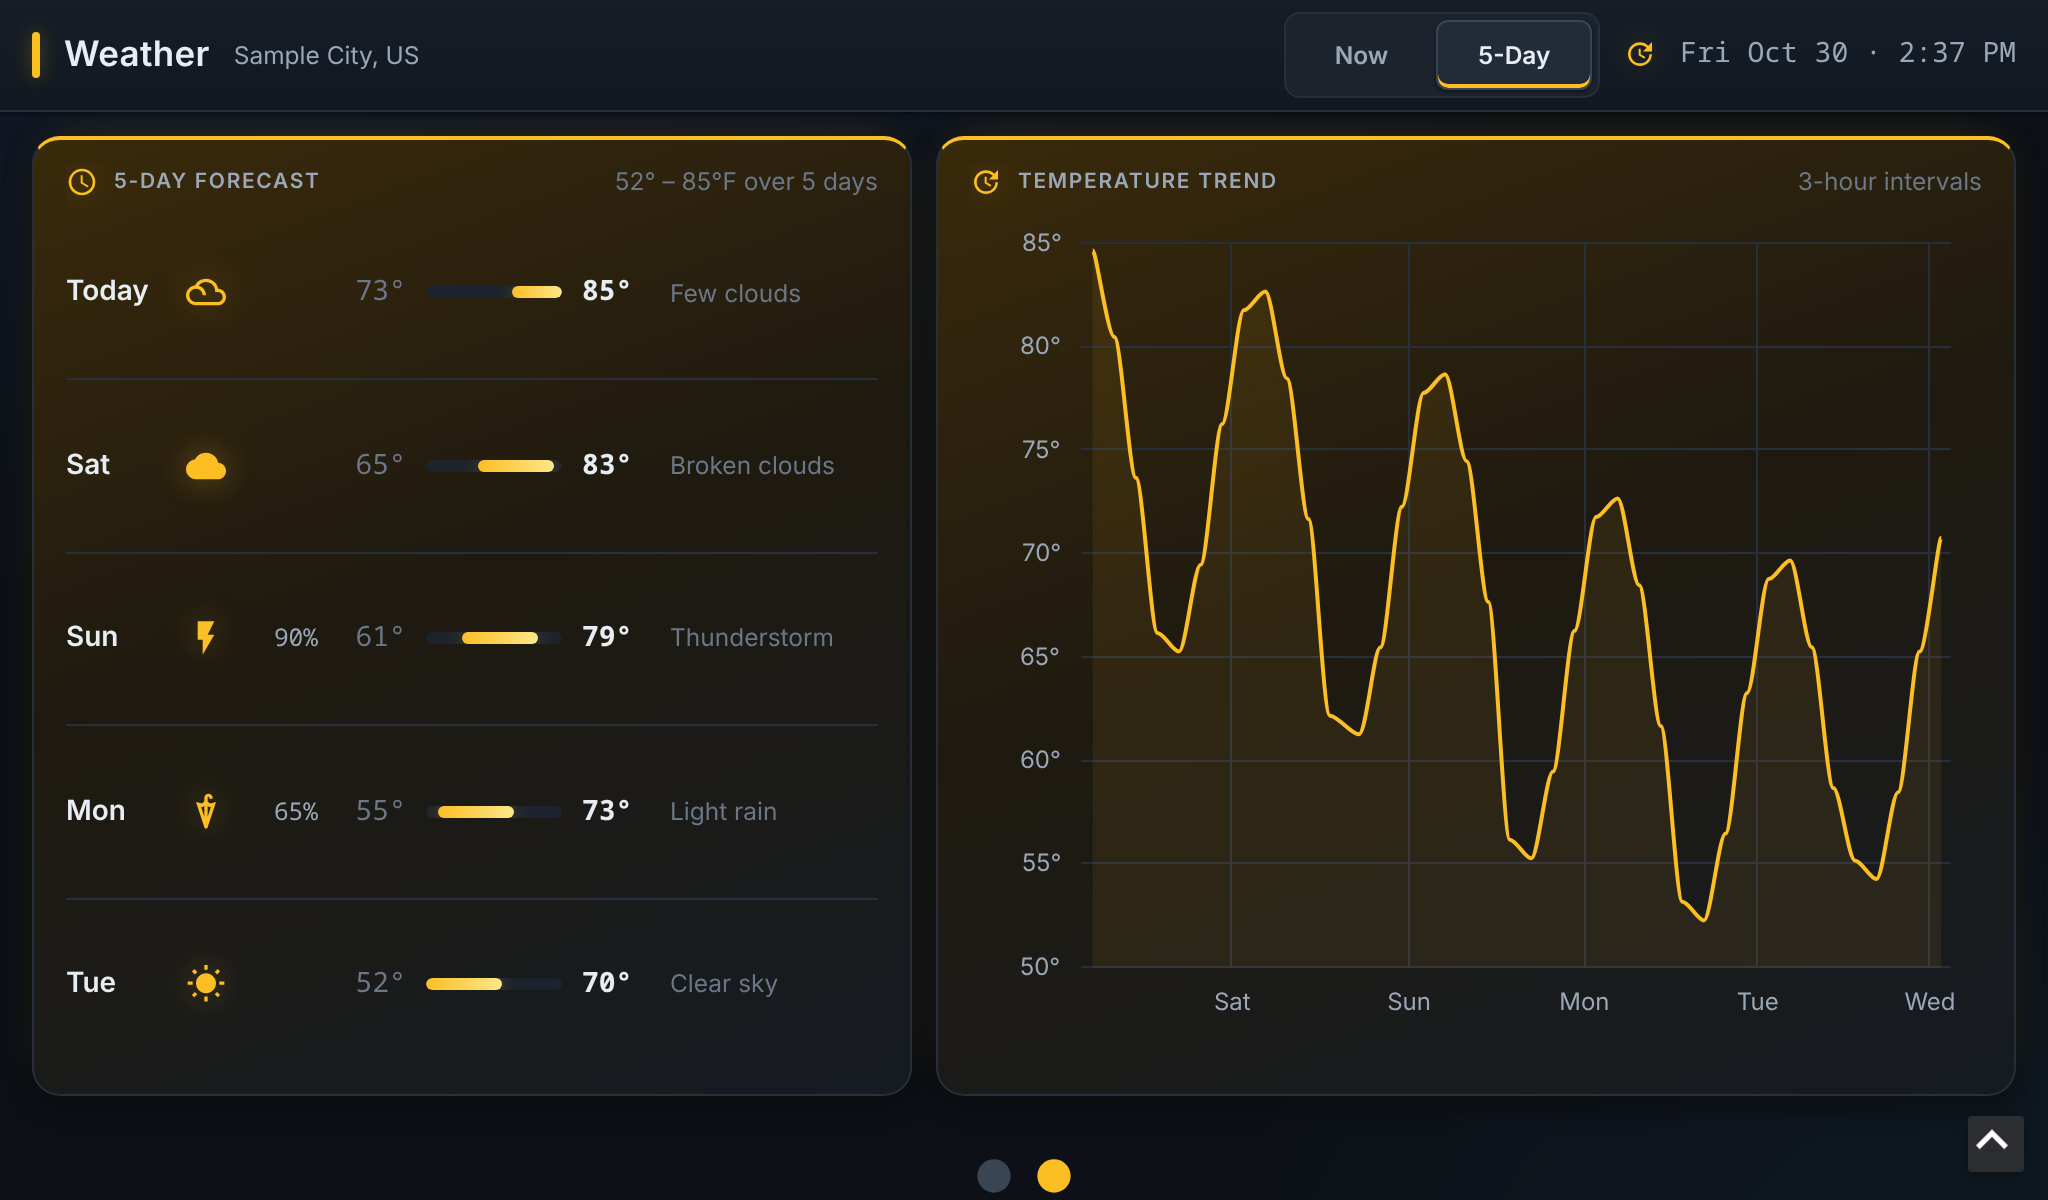
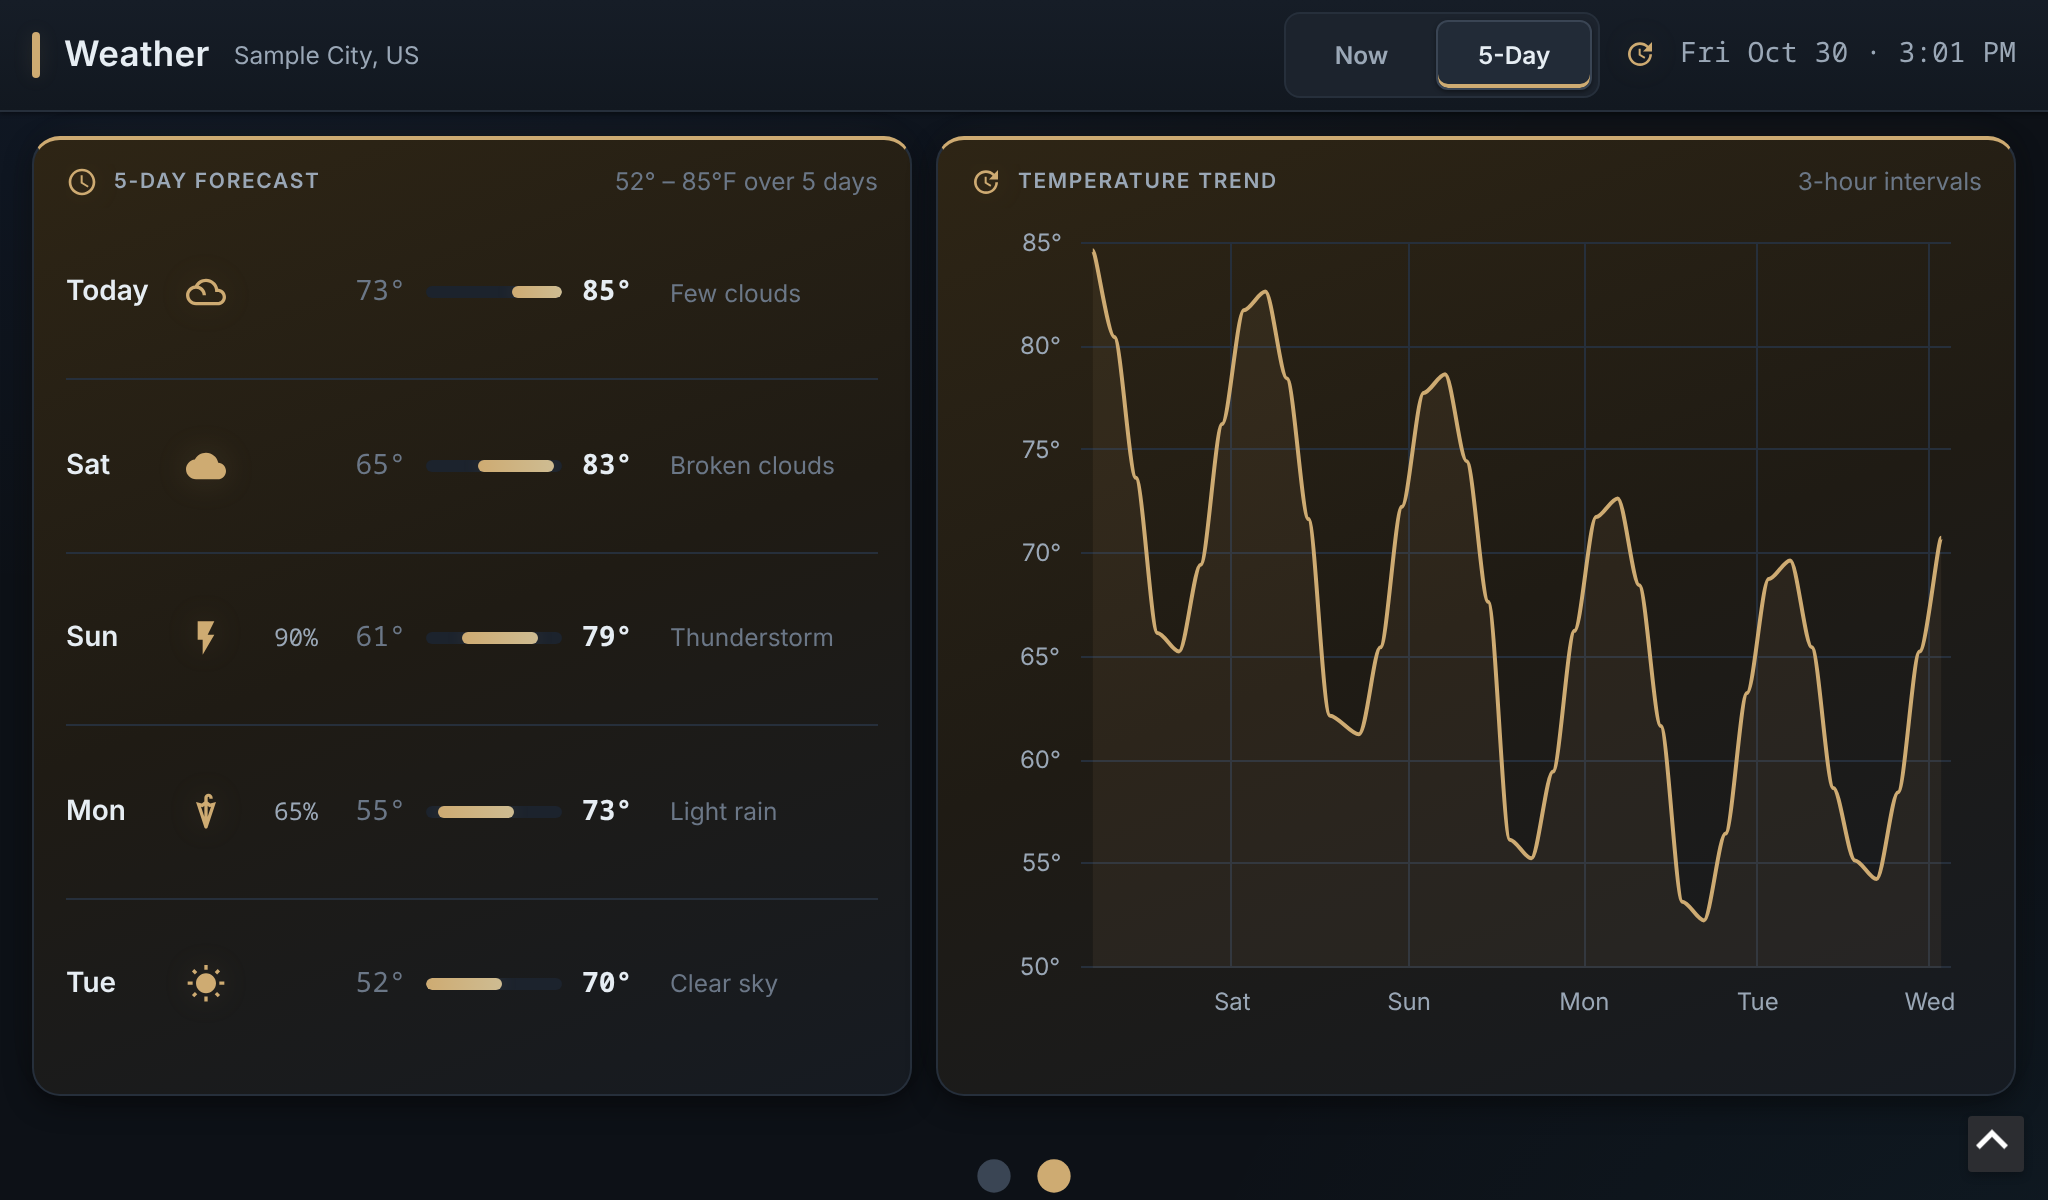
Soften weather palette so no condition color is too contrasting
Every weather accent now uses one formula: same OKLCH lightness for all
conditions (7.8-8.3:1 against the card surface, previously 5.8-15.1:1),
chroma capped around 0.09, hue kept per condition. Glows are halved,
background gradients are a faint tint of the hue, and status badge text
is toned down to match. The chart/dot accent hex map in the KPI
transform mirrors the new stylesheet values.

README screenshots retaken with the new palette (fictional data).

Claude-Session: https://claude.ai/code/session_01BP7oeW6dvvmzfNPCTs1MP4

diff --git a/Home-Lab/com.inductiveautomation.perspective/stylesheet/stylesheet.css b/Home-Lab/com.inductiveautomation.perspective/stylesheet/stylesheet.css
@@ -73,7 +73,7 @@
   /* Weather defaults (overridden by .psc-weather-* classes) */
   --wx-accent:   var(--accent);
   --wx-accent-2: var(--accent-hover);
-  --wx-glow:     rgba(59, 130, 246, 0.25);
+  --wx-glow:     rgba(59, 130, 246, 0.14);
   --wx-bg:       linear-gradient(160deg, #1c232d 0%, #161b22 100%);
   --wx-text:     var(--text-primary);
 
@@ -142,7 +142,7 @@ body,
   font-weight: 700;
   font-variant-numeric: tabular-nums;
   color: var(--wx-accent);
-  text-shadow: 0 0 18px var(--wx-glow);
+  text-shadow: 0 0 12px var(--wx-glow);
   transition: color var(--transition), text-shadow var(--transition);
 }
 .psc-kpi-unit {
@@ -415,10 +415,10 @@ body,
   font-weight: 700;
   letter-spacing: 0.04em;
 }
-.psc-badge-ok      { background: rgba(34, 197, 94, 0.15);  color: #86efac; border: 1px solid rgba(34, 197, 94, 0.4); }
-.psc-badge-warn    { background: rgba(245, 158, 11, 0.15); color: #fcd34d; border: 1px solid rgba(245, 158, 11, 0.4); }
-.psc-badge-alarm   { background: rgba(239, 68, 68, 0.15);  color: #fca5a5; border: 1px solid rgba(239, 68, 68, 0.4); }
-.psc-badge-offline { background: rgba(100, 116, 139, 0.2); color: #cbd5e1; border: 1px solid rgba(100, 116, 139, 0.4); }
+.psc-badge-ok      { background: rgba(34, 197, 94, 0.15);  color: #95cda6; border: 1px solid rgba(34, 197, 94, 0.4); }
+.psc-badge-warn    { background: rgba(245, 158, 11, 0.15); color: #dcc188; border: 1px solid rgba(245, 158, 11, 0.4); }
+.psc-badge-alarm   { background: rgba(239, 68, 68, 0.15);  color: #e4a5a2; border: 1px solid rgba(239, 68, 68, 0.4); }
+.psc-badge-offline { background: rgba(100, 116, 139, 0.2); color: #b5bfcb; border: 1px solid rgba(100, 116, 139, 0.4); }
 
 .psc-pulse-alarm { animation: alarm-pulse 1.4s ease-in-out infinite; }
 @keyframes alarm-pulse {
@@ -436,93 +436,93 @@ body,
    --------------------------------------------------------------------- */
 .psc-weather-clear,
 .psc-weather-sunny {
-  --wx-accent:   #fbbf24;
-  --wx-accent-2: #fde68a;
-  --wx-glow:     rgba(251, 191, 36, 0.35);
-  --wx-bg:       linear-gradient(160deg, #3a2a0b 0%, #1f1a10 45%, #161b22 100%);
+  --wx-accent:   #ceab72;
+  --wx-accent-2: #cebc92;
+  --wx-glow:     rgba(206, 171, 114, 0.14);
+  --wx-bg:       linear-gradient(160deg, #2e2515 0%, #1f1b14 50%, #161b22 100%);
 }
 
 .psc-weather-partly-cloudy {
-  --wx-accent:   #fcd34d;
-  --wx-accent-2: #cbd5e1;
-  --wx-glow:     rgba(252, 211, 77, 0.25);
-  --wx-bg:       linear-gradient(160deg, #2e2a1d 0%, #232832 50%, #161b22 100%);
+  --wx-accent:   #c1b082;
+  --wx-accent-2: #b5bfcb;
+  --wx-glow:     rgba(193, 176, 130, 0.14);
+  --wx-bg:       linear-gradient(160deg, #2b261a 0%, #1e1c15 50%, #161b22 100%);
 }
 
 .psc-weather-cloudy,
 .psc-weather-overcast {
-  --wx-accent:   #94a3b8;
-  --wx-accent-2: #cbd5e1;
-  --wx-glow:     rgba(148, 163, 184, 0.25);
-  --wx-bg:       linear-gradient(160deg, #2a313c 0%, #1e242d 55%, #161b22 100%);
+  --wx-accent:   #a5b2c5;
+  --wx-accent-2: #b7bec7;
+  --wx-glow:     rgba(165, 178, 197, 0.14);
+  --wx-bg:       linear-gradient(160deg, #23272c 0%, #1a1c1f 50%, #161b22 100%);
 }
 
 .psc-weather-rain,
 .psc-weather-drizzle {
-  --wx-accent:   #38bdf8;
-  --wx-accent-2: #7dd3fc;
-  --wx-glow:     rgba(56, 189, 248, 0.3);
-  --wx-bg:       linear-gradient(160deg, #0c2a3d 0%, #11202d 50%, #161b22 100%);
+  --wx-accent:   #80bad9;
+  --wx-accent-2: #9dc4d8;
+  --wx-glow:     rgba(128, 186, 217, 0.14);
+  --wx-bg:       linear-gradient(160deg, #192931 0%, #151d22 50%, #161b22 100%);
 }
 
 .psc-weather-storm,
 .psc-weather-thunderstorm {
-  --wx-accent:   #a78bfa;
-  --wx-accent-2: #facc15;
-  --wx-glow:     rgba(167, 139, 250, 0.35);
-  --wx-bg:       linear-gradient(160deg, #241a3d 0%, #1a1729 50%, #13161d 100%);
+  --wx-accent:   #b4a7e2;
+  --wx-accent-2: #cebc92;
+  --wx-glow:     rgba(180, 167, 226, 0.14);
+  --wx-bg:       linear-gradient(160deg, #272434 0%, #1c1a22 50%, #161b22 100%);
 }
 
 .psc-weather-snow,
 .psc-weather-sleet {
-  --wx-accent:   #e0f2fe;
-  --wx-accent-2: #bae6fd;
-  --wx-glow:     rgba(224, 242, 254, 0.3);
-  --wx-bg:       linear-gradient(160deg, #263445 0%, #1d2632 50%, #161b22 100%);
+  --wx-accent:   #90b8ca;
+  --wx-accent-2: #abc2ce;
+  --wx-glow:     rgba(144, 184, 202, 0.14);
+  --wx-bg:       linear-gradient(160deg, #1e282d 0%, #171d1f 50%, #161b22 100%);
 }
 
 .psc-weather-fog,
 .psc-weather-haze {
-  --wx-accent:   #a8b3c1;
-  --wx-accent-2: #d1d9e2;
-  --wx-glow:     rgba(168, 179, 193, 0.2);
-  --wx-bg:       linear-gradient(180deg, #2b3138 0%, #22272e 60%, #161b22 100%);
+  --wx-accent:   #a9b2be;
+  --wx-accent-2: #b8bec5;
+  --wx-glow:     rgba(169, 178, 190, 0.14);
+  --wx-bg:       linear-gradient(160deg, #24272a 0%, #1a1c1e 50%, #161b22 100%);
 }
 
 .psc-weather-wind {
-  --wx-accent:   #2dd4bf;
-  --wx-accent-2: #99f6e4;
-  --wx-glow:     rgba(45, 212, 191, 0.3);
-  --wx-bg:       linear-gradient(160deg, #0d2e2b 0%, #14222a 50%, #161b22 100%);
+  --wx-accent:   #7ec0b4;
+  --wx-accent-2: #9fc8bf;
+  --wx-glow:     rgba(126, 192, 180, 0.14);
+  --wx-bg:       linear-gradient(160deg, #192a27 0%, #151e1c 50%, #161b22 100%);
 }
 
 .psc-weather-hot {
-  --wx-accent:   #f97316;
-  --wx-accent-2: #fdba74;
-  --wx-glow:     rgba(249, 115, 22, 0.35);
-  --wx-bg:       linear-gradient(160deg, #3d1a0b 0%, #261711 50%, #161b22 100%);
+  --wx-accent:   #e0a07d;
+  --wx-accent-2: #d9b795;
+  --wx-glow:     rgba(224, 160, 125, 0.14);
+  --wx-bg:       linear-gradient(160deg, #332219 0%, #221a16 50%, #161b22 100%);
 }
 
 .psc-weather-cold,
 .psc-weather-freezing {
-  --wx-accent:   #60a5fa;
-  --wx-accent-2: #c7d2fe;
-  --wx-glow:     rgba(96, 165, 250, 0.3);
-  --wx-bg:       linear-gradient(160deg, #13234a 0%, #151d33 50%, #161b22 100%);
+  --wx-accent:   #8fb4e4;
+  --wx-accent-2: #b4bcdb;
+  --wx-glow:     rgba(143, 180, 228, 0.14);
+  --wx-bg:       linear-gradient(160deg, #1d2734 0%, #171c23 50%, #161b22 100%);
 }
 
 .psc-weather-night {
-  --wx-accent:   #818cf8;
-  --wx-accent-2: #c4b5fd;
-  --wx-glow:     rgba(129, 140, 248, 0.3);
-  --wx-bg:       linear-gradient(160deg, #141a3a 0%, #11152a 50%, #0d1117 100%);
+  --wx-accent:   #a4ade4;
+  --wx-accent-2: #bfb8dc;
+  --wx-glow:     rgba(164, 173, 228, 0.14);
+  --wx-bg:       linear-gradient(160deg, #232534 0%, #1a1b23 50%, #0d1117 100%);
 }
 
 .psc-weather-unknown {
-  --wx-accent:   var(--offline);
-  --wx-accent-2: #94a3b8;
-  --wx-glow:     rgba(100, 116, 139, 0.2);
-  --wx-bg:       linear-gradient(160deg, #1c232d 0%, #161b22 100%);
+  --wx-accent:   #a9b2be;
+  --wx-accent-2: #b8bec8;
+  --wx-glow:     rgba(169, 178, 190, 0.14);
+  --wx-bg:       linear-gradient(160deg, #24272a 0%, #1b1c1e 50%, #161b22 100%);
 }
 
 /* Weather-aware components */
